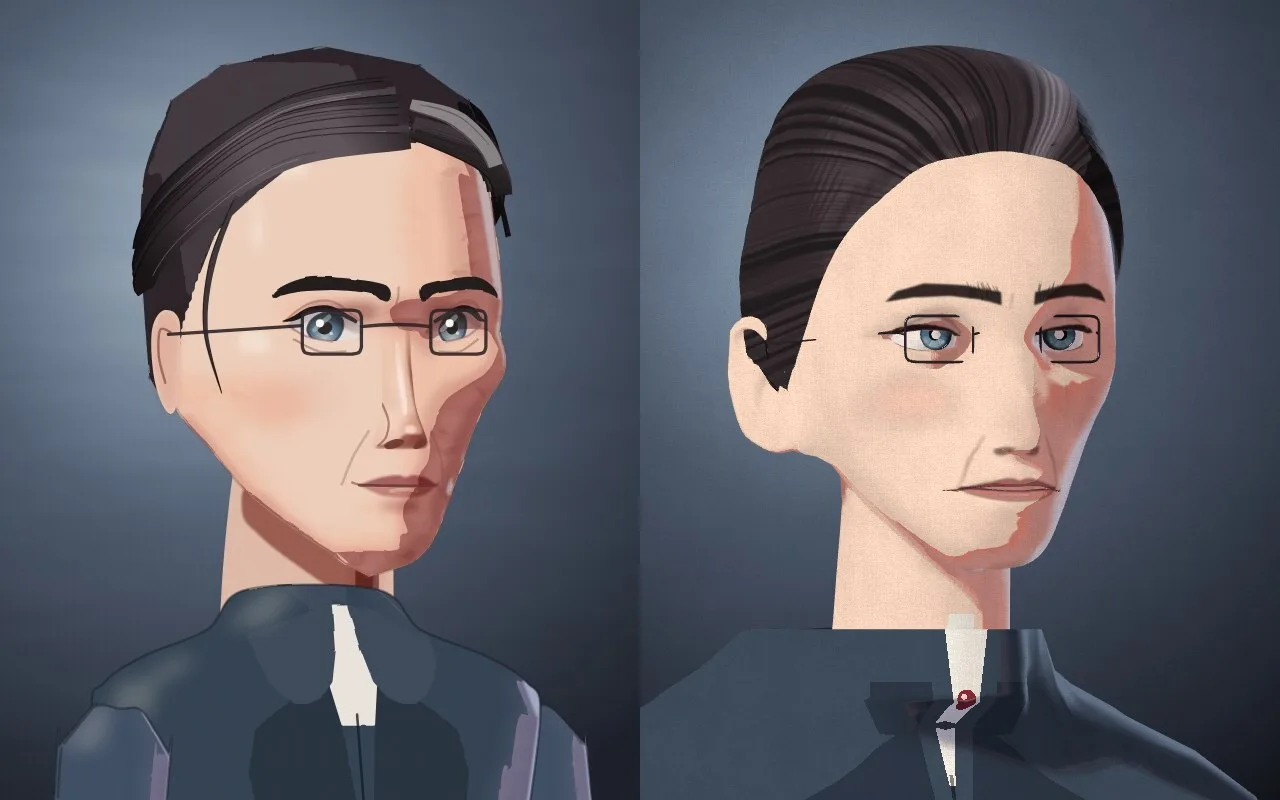
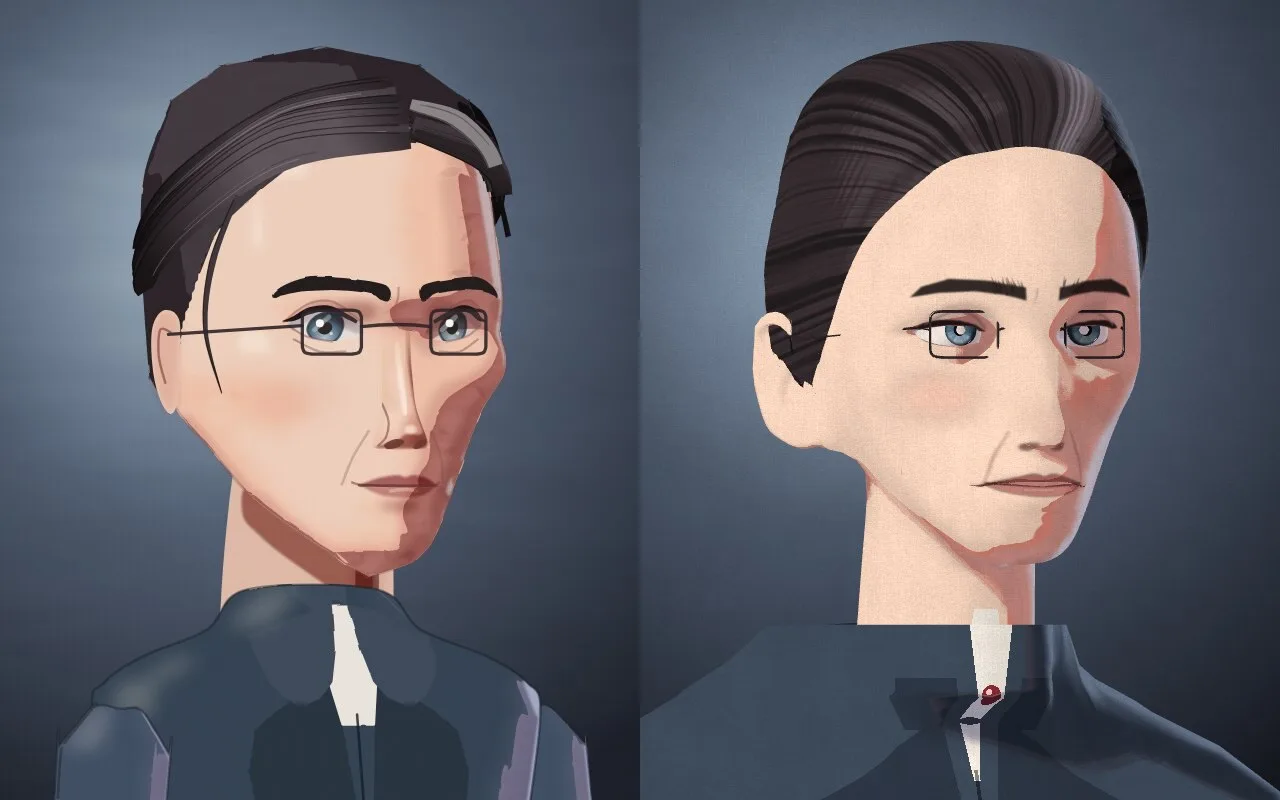
Work in progress: drawings to 3D (round two)
Claude-Session: https://claude.ai/code/session_01WT1L4WBJdxtpyR6gM4uaxn

Changed region(s): [[0.5625, 0.0625, 1.0, 1.0], [0.7188, 0.0312, 0.7812, 0.0625], [0.5, 0.875, 0.5312, 0.9062]]

diff --git a/to3d/r12-s12-anya/tools/web/ui.js b/to3d/r12-s12-anya/tools/web/ui.js
@@ -1,0 +1,65 @@
+// The viewer by hand (Р1's, for the pen): turn with the mouse (wheel — nearer), choose the motion, play / pause / scrub,
+// the sheet's expressions (a button — that one; the sliders mix them), talk on/off, the face close. The picture is drawn
+// anew 12 times a second — as a hand-drawn film is, a drawing held for two frames.
+const MOTIONS = [['', 'стоит'], ['idle', 'стоит, оглядывается'], ['walk', 'шаг'], ['wave', 'машет'], ['sit', 'садится'],
+  ['bow', 'поклон'], ['stomp', 'топает'], ['dance', 'танец'], ['jump', 'прыжок'], ['run', 'бег'], ['sneak', 'крадётся']];
+const EXPR = [['dream', 'мечтает'], ['joy', 'радость'], ['surprise', 'удивление'], ['sad', 'грусть'], ['anger', 'гнев']];
+
+export function ui(A, stage) {
+  const css = document.createElement('style');
+  css.textContent = `
+  #ui { position: fixed; left: 10px; top: 10px; z-index: 4; width: min(330px, calc(100vw - 20px)); max-height: calc(100vh - 20px); overflow-y: auto;
+    background: rgba(255,253,249,.93); border-radius: 10px; padding: 10px 12px; box-shadow: 0 2px 10px rgba(0,0,0,.15);
+    font: 13px/1.4 system-ui, sans-serif; color: #26231f; display: grid; gap: 7px; }
+  #ui .row { display: flex; gap: 6px; align-items: center; flex-wrap: wrap; }
+  #ui select, #ui button { font: inherit; border: 1px solid #d5cec4; background: #fff; border-radius: 6px; padding: 3px 9px; cursor: pointer; color: inherit; }
+  #ui button[aria-pressed="true"] { background: #b4532a; border-color: #b4532a; color: #fff; }
+  #ui input[type=range] { flex: 1; min-width: 80px; accent-color: #b4532a; }
+  #ui .lab { color: #75706a; font-size: 12px; min-width: 72px; }
+  #ui .hint { color: #75706a; font-size: 12px; }`;
+  document.head.appendChild(css);
+  const box = document.createElement('div'); box.id = 'ui'; document.body.appendChild(box);
+  box.innerHTML = `
+    <div class="row"><span class="lab">движение</span><select id="mv">${MOTIONS.map(([v, l]) => `<option value="${v}">${l}</option>`).join('')}</select>
+      <button id="play" aria-pressed="true">▶ ❚❚</button></div>
+    <div class="row"><input id="scrub" type="range" min="0" max="1" step="1" value="0"><span id="tt" class="hint"></span></div>
+    <div class="row">${EXPR.map(([v, l]) => `<button data-e="${v}">${l}</button>`).join('')}</div>
+    ${EXPR.map(([v, l]) => `<div class="row"><span class="lab">${l}</span><input data-w="${v}" type="range" min="0" max="1" step="0.01" value="${v === 'dream' ? 1 : 0}"></div>`).join('')}
+    <div class="row"><button id="talk" aria-pressed="false">говорит</button><button id="close" aria-pressed="false">лицо крупно</button><button id="home">вид спереди</button></div>
+    <div class="hint">Тянуть мышью — повернуть, колесо — ближе. Каждый кадр заново нарисован пером и акварелью по 3D: контуры, заливки, лицо. Моргание, взгляд и речь — по своим часам, движение — Kimodo через движок.</div>`;
+  const $ = s => box.querySelector(s);
+  let playing = true, t = 0, last = performance.now(), frames = 0, fps = 30, lastDraw = 0;
+  const t0 = performance.now(), clock = () => (performance.now() - t0) / 1000;
+  const far = { mode: 'persp', dist: 5.6, fov: 22, cy: 0.86, follow: true, focus: null, yaw: 0.5, pitch: 0.05 };
+  const near = { mode: 'persp', dist: 1.7, fov: 22, follow: false, focus: 'Head', up: -0.03, pitch: 0.03 };
+  A.set({ liveClock: true, cam: far, pose: 'stand', poseOpts: { out: 0.06 }, anchorGrain: true });
+  async function motion(id) {
+    await A.set({ clip: id || null, t: 0, time: clock() });
+    const c = A.clipInfo(); frames = c ? c.frames : 0; fps = c ? c.fps : 30; t = 0;
+    $('#scrub').max = Math.max(1, frames - 1);
+  }
+  $('#mv').onchange = e => motion(e.target.value);
+  $('#play').onclick = e => { playing = !playing; e.target.setAttribute('aria-pressed', playing); };
+  $('#scrub').oninput = e => { t = Number(e.target.value); };
+  const sliders = [...box.querySelectorAll('[data-w]')];
+  const weights = () => Object.fromEntries(sliders.map(s => [s.dataset.w, Number(s.value)]));
+  for (const b of box.querySelectorAll('[data-e]')) b.onclick = () => { for (const s of sliders) s.value = s.dataset.w === b.dataset.e ? 1 : 0; A.set({ time: clock(), expr: weights() }); };
+  for (const s of sliders) s.oninput = () => A.set({ time: clock(), expr: weights() });
+  $('#talk').onclick = e => { const on = e.target.getAttribute('aria-pressed') !== 'true'; e.target.setAttribute('aria-pressed', on); A.set({ time: clock(), talk: on }); };
+  $('#close').onclick = e => { const on = e.target.getAttribute('aria-pressed') !== 'true'; e.target.setAttribute('aria-pressed', on); A.set({ cam: { ...(on ? near : far), yaw: A.S.cam.yaw } }); };
+  $('#home').onclick = () => A.set({ cam: { yaw: A.facing(), pitch: 0.04 } });
+  let drag = null;
+  stage.addEventListener('pointerdown', e => { drag = [e.clientX, e.clientY, A.S.cam.yaw, A.S.cam.pitch]; stage.setPointerCapture(e.pointerId); });
+  stage.addEventListener('pointerup', () => { drag = null; });
+  stage.addEventListener('pointermove', e => { if (!drag) return; A.S.cam.yaw = drag[2] - (e.clientX - drag[0]) * 0.01; A.S.cam.pitch = Math.max(-0.5, Math.min(0.9, drag[3] + (e.clientY - drag[1]) * 0.005)); });
+  stage.addEventListener('wheel', e => { e.preventDefault(); A.S.cam.dist = Math.max(0.6, Math.min(14, A.S.cam.dist * Math.exp(e.deltaY * 0.001))); }, { passive: false });
+  stage.style.touchAction = 'none';
+  const loop = async () => {
+    const now = performance.now(), dt = (now - last) / 1000; last = now;
+    if (frames && playing) { t += dt * fps; if (t > frames - 1) t = 0; $('#scrub').value = t; }
+    $('#tt').textContent = frames ? (t / fps).toFixed(1) + ' с' : '';
+    if (now - lastDraw > 1000 / 12) { lastDraw = now; await A.set({ t, time: clock() }); A.render(); }
+    requestAnimationFrame(loop);
+  };
+  loop();
+}

diff --git a/to3d/r6-s1-tim/tools/web/tim.js b/to3d/r6-s1-tim/tools/web/tim.js
@@ -90,8 +90,8 @@ function headTrack(c) {
   if (tracks.has(key)) return tracks.get(key);
   const H = sk.index.Head, yaw = [], pitch = [];
   for (let f = 0; f < c.frames; f++) {
-    figure.frame(c, f);
-    const M = figure.skinner.matrix(figure.pose, H);
+    const pose = figure.retarget.pose(c.sample(f, figure.sample));      // the pose only: no skinning needed here
+    const M = figure.skinner.matrix(pose, H);
     const d = [M[2], M[6], M[10]];          // the head's forward (its rest +z) now
     let a = Math.atan2(d[0], d[2]); if (yaw.length) { while (a - yaw[yaw.length - 1] > Math.PI) a -= 2 * Math.PI; while (a - yaw[yaw.length - 1] < -Math.PI) a += 2 * Math.PI; }
     yaw.push(a); pitch.push(Math.asin(Math.max(-1, Math.min(1, d[1]))));

diff --git a/to3d/r7-s4-vera/notes.md b/to3d/r7-s4-vera/notes.md
@@ -1,0 +1,113 @@
+# Р7 — Вера, Arcane (style С4) in 3D
+
+What was done, why, how to repeat, the bases' licences. Brief: `/home/user/cache/BRIEF-to3d.md` (with its second
+round). Done by one agent; the orchestrator commits.
+
+## The idea
+
+The С4 drawing is itself built as 3D (`styles/s4-arcane/tools/arc.py`: the head a loft of super-elliptic sections with
+bumps, a nose surface, a neck loft; features drawn in the face's flat coordinates = the front view's x, y, and wrapped
+onto the head). The drawing is weak as a drawing (a mannequin: narrow stick body, angular face), so it is used for
+what it is good at — the head's shape and proportions, the features' places, the colours, the light rules — and for
+the rest the target is the style's rules and samples (`entry.json` «Правила стиля», `refs/`): near-real anatomy
+slightly drawn out, one graphic shadow shape with a clear edge, a warm band at the shadow's edge, a cool rim, painterly
+grain. Hence real bases: a sculpted realistic head (it has real lids and eyeballs) and Anny's body.
+
+Units: the drawing's units map to metres as world = (x·K, (1656 − y)·K, z·K + ZOFF), K = 0.97 mm (she is 1.73 m; the
+drawing's head of 234 units is then a real 227 mm head, its eyes 62 units apart a real 60 mm).
+
+## Steps (tools/, in order) and what each base gave
+
+1. `export_hbm.py` (Blender 4.5, background) — Human Base Meshes «head for animation» (realistic) with its sculpted
+   multires level applied, its scleras and irises (after Р2), plus for every head vertex how much of its hemisphere is
+   seen from outside (ray casts): the mouth's inside and the sockets' linings are not, and are not pulled in the fit.
+2. `drawing.py` — samples the drawing's own head loft, nose and neck surfaces (`cast.vera()`) as points.
+3. `fit_head.py` (after Р2's) — places the base: x by the eyes (±31), heights by a monotone map of the base's
+   landmarks (chin, mouth line, subnasale, nose tip, eye, crown) to the drawing's (112, 71, 56, 45, 0, −122) — the
+   nose comes out long, as the style asks; the nose's protrusion scaled ×1.44 toward the drawing's nose tip. The eye
+   regions (balls and lids) are carried whole, 1.24× the head's scale and 1.12× wider (Arcane: big almond eyes), the
+   carried place blending smoothly into the placed head over 16–34 mm (a hard border left a visible step on the
+   cheek). Then non-rigid ICP onto the drawing's surfaces (Laplacian stiffness 40 → 10: the base keeps its own form,
+   the drawing gives proportions); lips and nose pulled weakly (the drawing's are just bumps). The drawn neck (54–64
+   units, a stick in 3D) is taken 1.3× wider. Gave: a real skull, lids, lips, nostrils, ears with clean loops.
+4. `build.py` — the pack (engine body format + look attributes):
+   - Anny `moood-woman` ×1.088 with SOMA weights: legs 4.5 % longer (Arcane's long legs), trunk and hips slimmer,
+     shoulders narrower, each leg turned in 4.5° about its hip (she stands feet together under a narrow skirt) —
+     joint frames are not touched, Kimodo retargets as for any engine body (checked in the walk).
+   - Anny's head and upper neck removed; the fitted head placed by the drawing's frame, weighted Head → Neck2 → Neck1 →
+     Chest down the neck; its neck ends inside the collar. Ears 0.8–0.88 smaller.
+   - The coat: Anny's body pushed out 6 mm; Anny's lower neck in the coat's cloth is the stand collar (pushed round the
+     head's neck, top edge levelled); the sleeves end at the wrist. The skirt: an A-line loft from the waist to the
+     drawing's hem (y 1210), round the hips and the legs, soft folds; weights pelvis → thighs → shins. Under it the
+     hips are drawn in 12 mm so nothing shows through. Lapels, the white shirt band, the front edge, the waist seam and
+     the red brooch are painted from rest positions in the shader (crisp edges, not per vertex).
+   - Shoes: Anny's feet below the ankle cut away, a lofted shoe on each foot (rounded toe, flat sole on the floor).
+   - Hair: a cap over the fitted skull above the drawing's own hairline (its `(u, y)` keys), sampled on meridians
+     from the crown down to the hairline, thickness 4.5–10 units (fuller on the crown), lying on the skin at the edge;
+     a squashed bun at the drawing's place. Strands are painted by an across-coordinate (the angle round the axis from
+     the forehead to the bun), so they sweep back into the bun; the grey streak at the front on her left.
+   - Glasses: rounded-rectangle frames (`P.glasses`: rx 14, ry 10, squareness) 8.8 units in front of the eye, curved,
+     a bridge and arms to the ears; lenses show only a glint (screen-door).
+   - The eyes: the base's balls; the iris painted in the shader (pupil, dark ring, light lower half, fibres), the key's
+     sharp reflection on the wet ball.
+5. `faces.py` — the painted face layer (front projection, 6 px per unit): the drawing's brow shape (`person.brow_shape`)
+   as a dark block with hairs at the start; the upper lid's line laid on the **fitted lids' real edge** (found by
+   rasterising the head and balls from the front: where the ball shows) — thicker outward, a short wing; the crease;
+   the lower lid's line on its outer half; lid shade, bags; lips on the fitted mouth's slit and corners (upper darker,
+   lower lighter with a highlight); blush; nostrils; the drawing's own lines of a tired forty (`P.lines`).
+6. `web/vera.js` — the look (three.js 0.160 on the engine: `makeBody`, `Figure`, retarget, `cor` skinning): one key
+   light from the upper left (in the camera's frame for the drawing's views, in the world for films); the shadow a
+   clear step whose edge is brushed by noise on the surface (not the screen); a 4096 shadow map for cast shadows
+   (nose, glasses, hair, arm); a warm saturated band along the shadow's edge; red-brown skin shadows; a cool rim on the
+   shadow side; painterly streaks in the shade; the face's normals mixed 88 % with a smoothed head's (the face
+   shades as big planes, as the style says); the face layer over it, dimmer and warmer in shade. Post: the drawing's
+   backdrop (`person.background`: radial glow #9fb4c8 → #4a5668 → #191c24), canvas weave, grain. The drawing's cameras
+   are reproduced exactly (`draw: {yaw, s, cx, cy}` = `View(yaw, s, cx, cy)`), so the overlays are true.
+   - Stand pose: arms hang by a two-bone reach; the left hand brings the folder to the chest as drawn (the folder is a
+     separate object on the left hand's joint, set once from the standing pose, so in motions it is carried in the hand).
+   - The skirt is not cloth: after skinning, its points inside a leg's capsule (thigh, shin) are put on the capsule.
+7. `web/face.js` (after Р2's face.mjs) — the 3D face moved by a few numbers: lids turned over the ball (blink, squint,
+   wide), jaw, mouth corners (smile, wide, pucker), brows (lift, inner ends, knit), irises (gaze). The painted layer
+   rides on the vertices, so brows and the lid line move with the skin. The five expressions = the drawing's
+   neutral (`CAST.vera.neutral`: heavy lids, a slight knit) and its sheet `EXPR` (joy, surprise, sad, anger).
+8. `web/life.js` (Р2's life.mjs, unchanged in timing) — blinks at log-normal intervals (~2.8 s, never closer than
+   0.8 s; close 75 ms, hold 25 ms, open 170 ms; one with every big gaze shift), fixational saccades (0.3–1.6 s, a jump
+   20 ms + 2.2 ms/degree), the eyes jumping ahead of a head turn (read 0.22 s ahead from the clip) and turning back as
+   the head follows, speech as syllables (consonant then vowel shapes) followed by a fast critically damped spring,
+   expressions followed by a slower one; all seeded, so a film is the same each time and the viewer can scrub.
+9. `web/view.html` + `ui.js` — the 3D tab: drag to turn, wheel/two fingers nearer, motion (stand, walk, idle, wave,
+   bow), expression buttons and a mix by sliders, speech on/off, face close, play/pause, scrub. Data in `web/data/`.
+10. `shots.mjs` (Playwright + SwiftShader; jobs of `A.set`), `compare.py` (side by side, overlay), `steps.py` (clay).
+
+## Repeat
+
+```
+cd to3d/r7-s4-vera/tools;  C=/home/user/cache/to3d-r7-s4-vera
+blender -b …/human-base-meshes-bundle-v1.4.1/human_base_meshes_bundle.blend -P export_hbm.py -- $C/hbm_head.npz
+python3 drawing.py $C && python3 fit_head.py $C && python3 build.py $C && python3 faces.py $C
+cp $C/out/{vera.json,vera.bin,face.json,face.png} web/data/
+NODE_PATH=/opt/node-tools/node_modules node shots.mjs $C/jstill.json $C/st     # stills in the drawing's frames
+NODE_PATH=/opt/node-tools/node_modules node shots.mjs $C/jfilm.json $C/fm      # film frames (~1–2 s each)
+python3 compare.py turn $C/st $C/st/turn;  python3 steps.py $C steps.jpg
+ffmpeg -framerate 25 -i $C/fm/turn/f%04d.png -c:v libx264 -pix_fmt yuv420p -crf 26 ../pics/turn.mp4   (motions: 30 fps)
+```
+The job files are kept in `tools/jobs/`.
+
+## What is weak (seen by eye)
+
+- The body is real-proportioned (Anny), much fuller than the drawing's stick figure: shoulders, hips and skirt are
+  wider than drawn (overlay). Chosen: the drawing's widths are a mannequin's; the style's rules ask for real anatomy.
+- The coat and skirt are skinned shells, not cloth: no swing, no folds from motion; the skirt is pushed off the legs.
+- The face's shadow edge is sometimes broken into small islands near the nose and the jaw (cast shadows + the brushed
+  edge); Arcane's shapes are cleaner. Skin inside the light is almost flat.
+- Expressions: joy and anger are milder than in the drawing's sheet; the open mouth has no teeth; at the mouth's
+  corners the painted lips and the 3D slit don't always meet exactly (a small dark stitch).
+- Hair is one shell with painted strands — no separate locks, no loose strands at the temples (drawn in the drawing).
+- The folder in motions simply rides in the left hand; hands and fingers are Anny's (realistic).
+
+## Licences
+
+- Human Base Meshes bundle v1.4.1 (Blender Foundation): CC0.
+- Anny body (`moood-woman`), SOMA skeleton and weights: as in `engine/data` (`engine/data/soma/NOTICE`).
+- Kimodo motions: `engine/motions` (moood studio).
+- The drawing and its code: ours (`styles/s4-arcane`). three.js 0.160 (MIT). No neural images; StdGEN not used.
